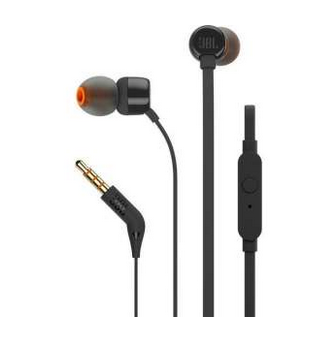
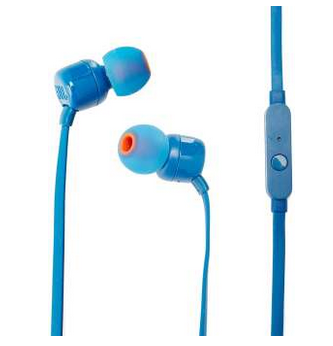
update gian wish

Changed region(s): [[0.1506, 0.0585, 0.7229, 0.9942], [0.6928, 0.0, 0.9036, 0.9942]]

diff --git a/index.html b/index.html
@@ -137,7 +137,7 @@
                 <div class="card-body">
                   <h5 class="card-title font-weight-bold">Gian</h5>
                   <p class="card-text">JBL Earphones</p>
-                  <a href="https://www.lazada.com.ph/products/jbl-t110-in-ear-headphones-black-i100394984-s100458416.html?fbclid=IwAR0QTPEbydAoLw1d_Srp-j-p7-00pBpeZo1echT8vhZ7mIpmjwvaiOjcOnU" class="btn btn-primary">Link to Gian's Wish</a>
+                  <a href="https://www.lazada.com.ph/products/jbl-t110-in-ear-headphones-blue-i300454760-s525330565.html??dsource=share&laz_share_info=66554126_100_100_500003208739_44371379_null&laz_token=46b3909109527734d4617cee21fe2ae1" class="btn btn-primary">Link to Gian's Wish</a>
                   <p class="font-weight-bold mt-3 mb-0 small">Requests</p>
                   <p class="text-muted my-2">Something Wooden</p>
                   <a href="https://shopee.ph/ahlsen-Natural-Dinnerware-Sets-Wood-Spoon-And-Fork-Set-Dessert-Tableware-Wooden-i.183466538.3438207102?fbclid=IwAR2vQ4Bcf0ZXs38nq55G0oy7eHgOPPwuVnFOIkQsYaZiaBqmnOvV2PeDhZE" class="btn btn-primary">Link to Gian's Something wooden</a>
